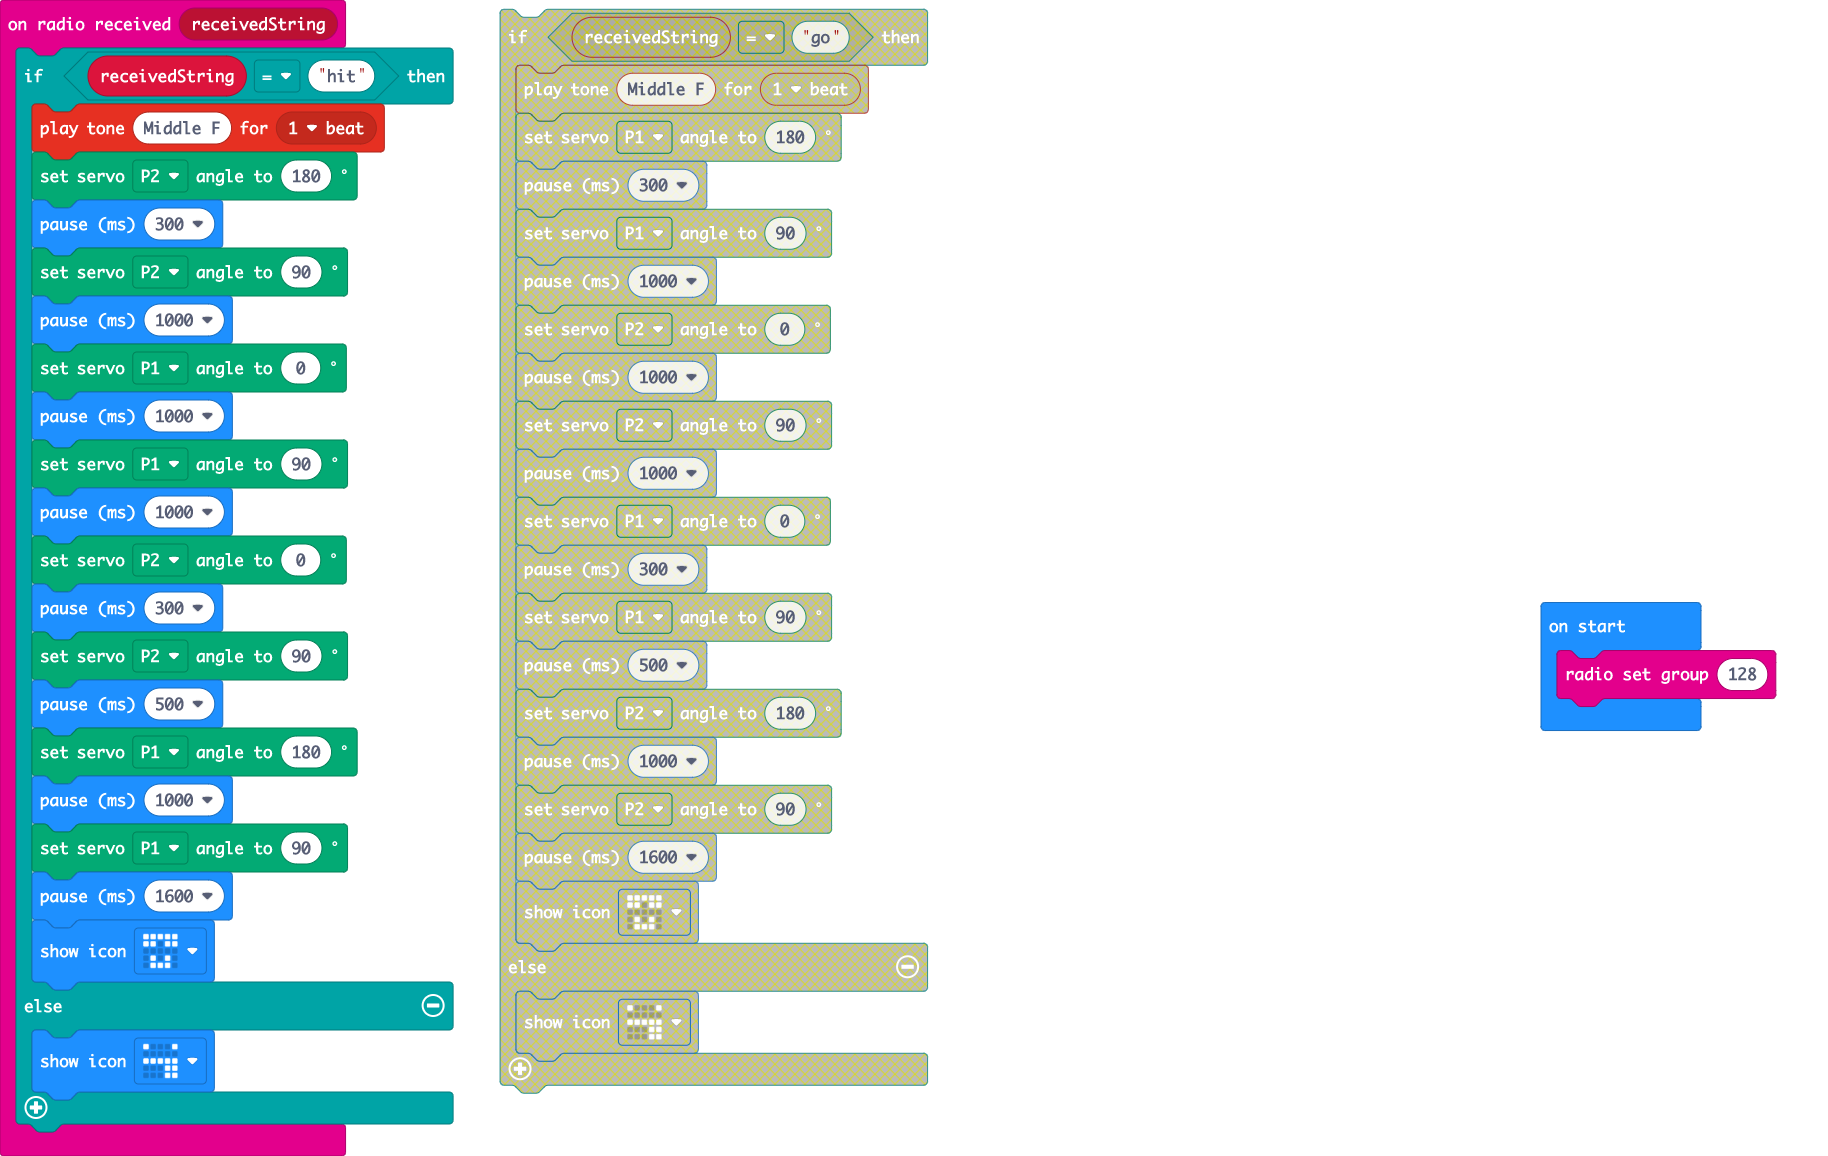
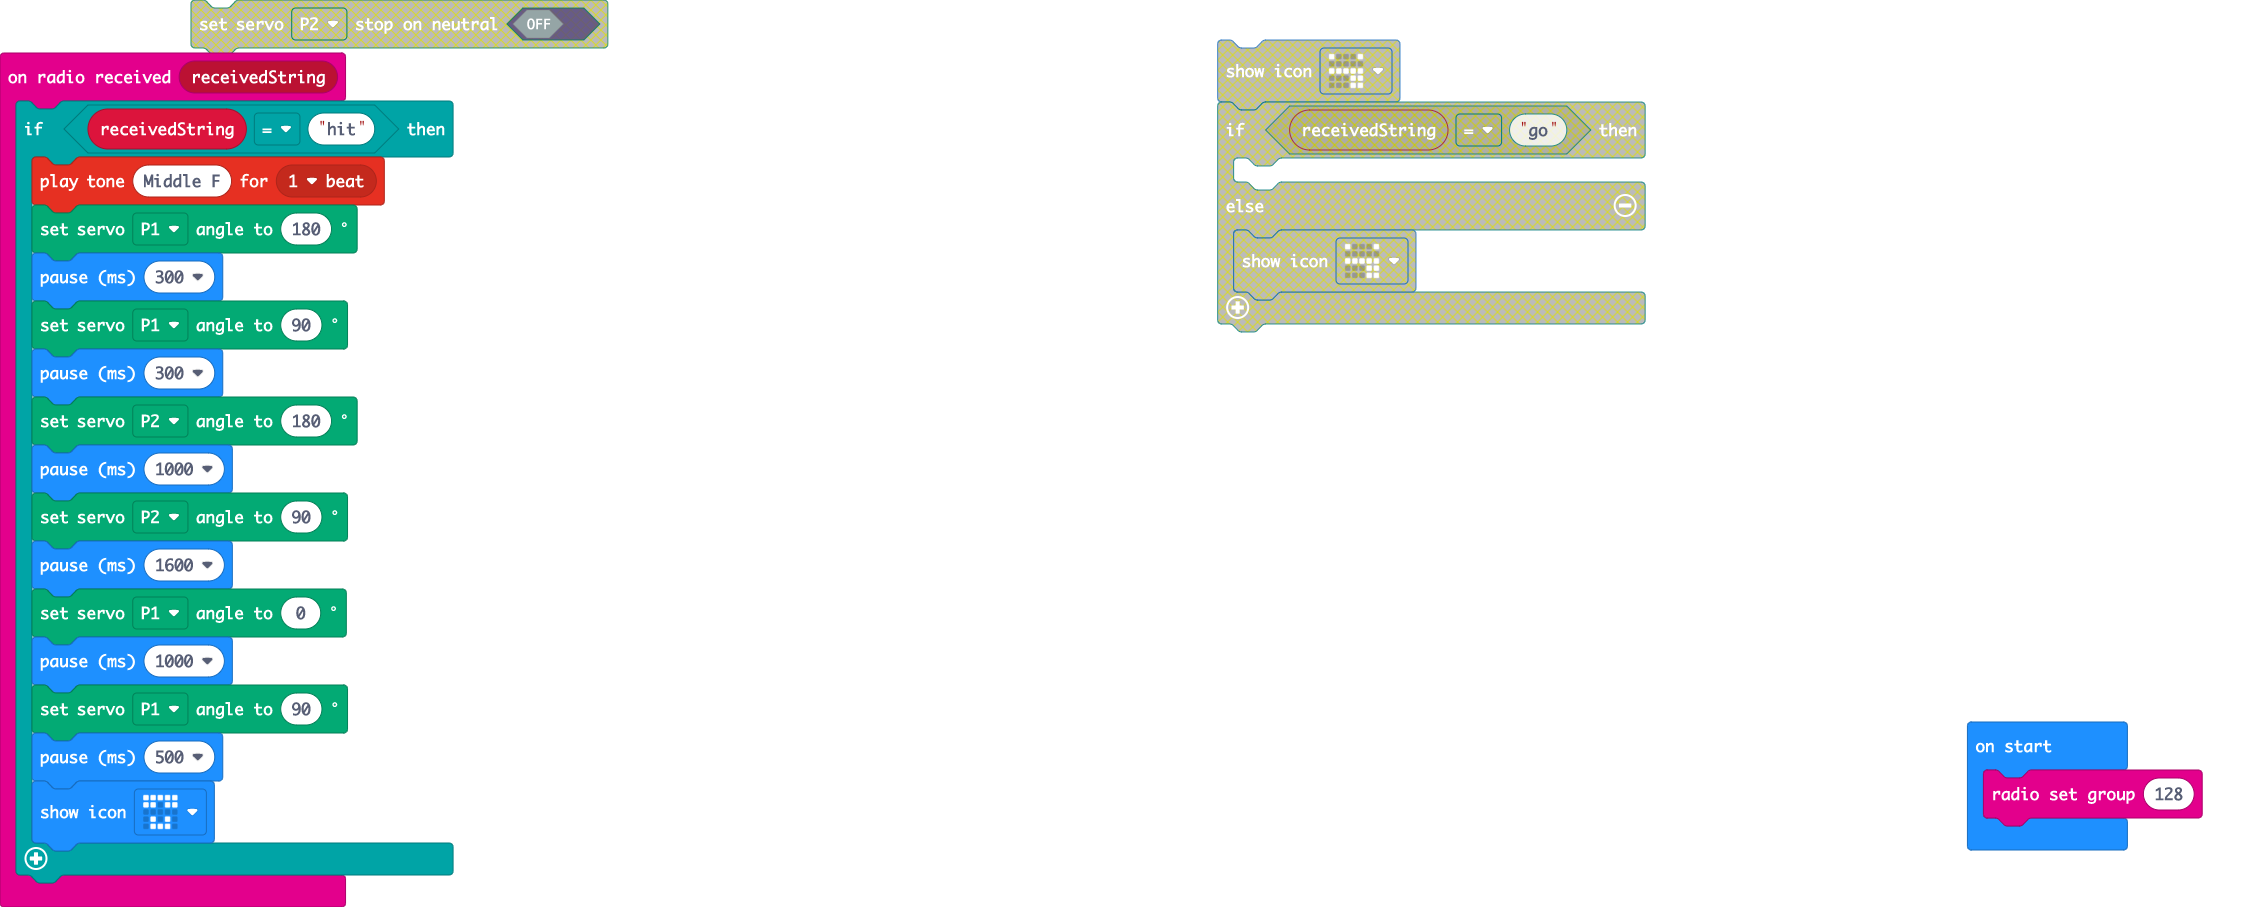
Update main.blocks, main.ts

diff --git a/main.ts b/main.ts
@@ -1,25 +1,19 @@
 radio.onReceivedString(function (receivedString) {
     if (receivedString == "hit") {
         music.playTone(349, music.beat(BeatFraction.Whole))
-        servos.P2.setAngle(180)
+        servos.P1.setAngle(180)
         basic.pause(300)
-        servos.P2.setAngle(90)
+        servos.P1.setAngle(90)
+        basic.pause(300)
+        servos.P2.setAngle(180)
         basic.pause(1000)
+        servos.P2.setAngle(90)
+        basic.pause(1600)
         servos.P1.setAngle(0)
         basic.pause(1000)
         servos.P1.setAngle(90)
-        basic.pause(1000)
-        servos.P2.setAngle(0)
-        basic.pause(300)
-        servos.P2.setAngle(90)
         basic.pause(500)
-        servos.P1.setAngle(180)
-        basic.pause(1000)
-        servos.P1.setAngle(90)
-        basic.pause(1600)
         basic.showIcon(IconNames.Fabulous)
-    } else {
-        basic.showIcon(IconNames.Silly)
     }
 })
 radio.setGroup(128)
